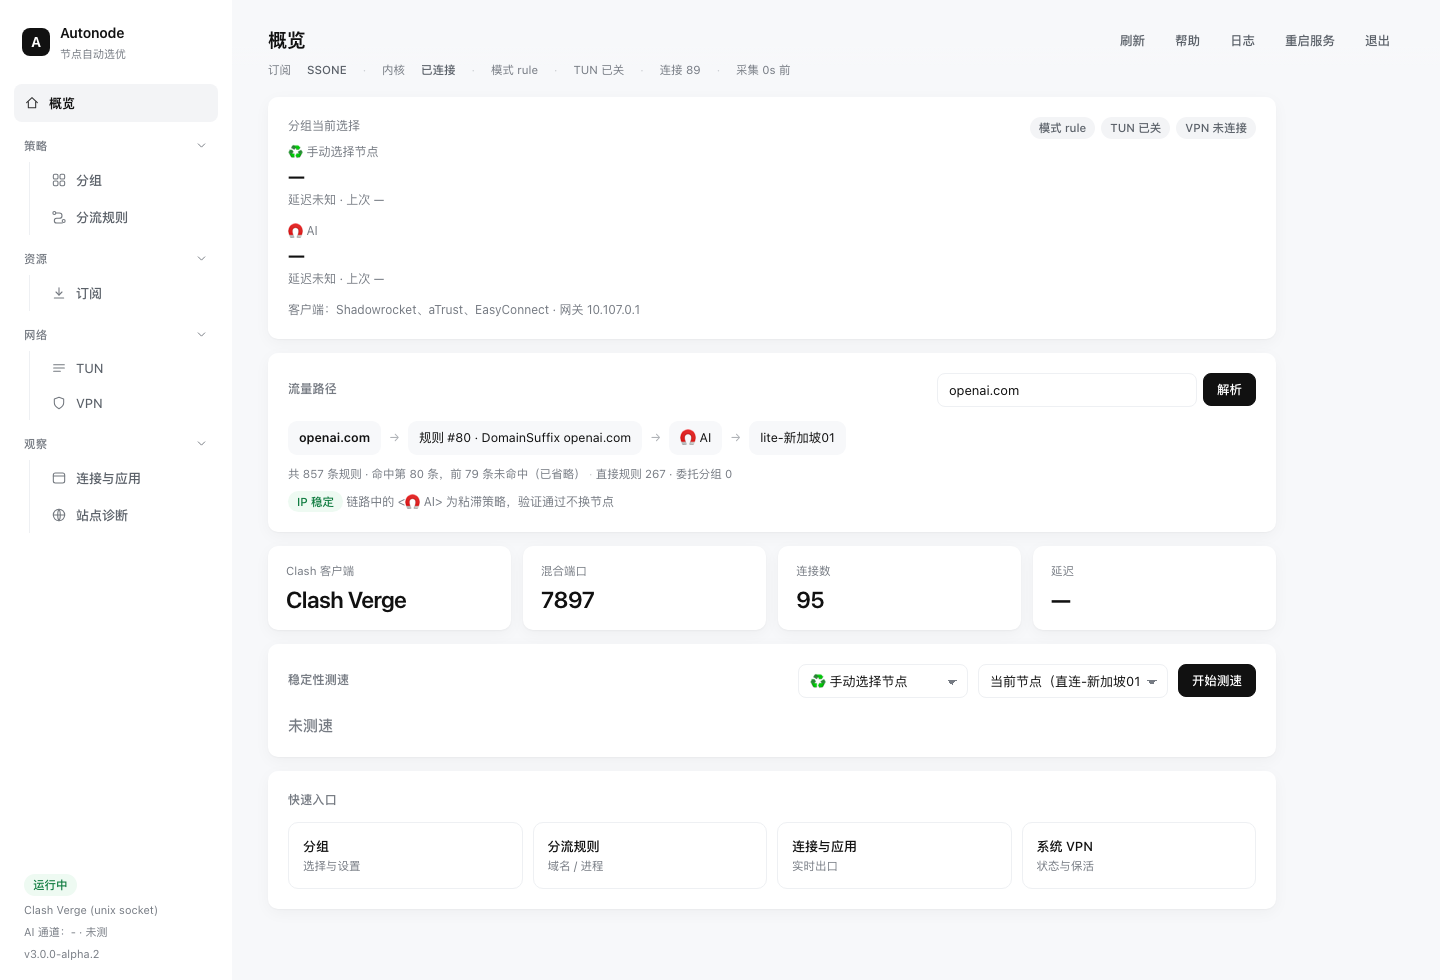
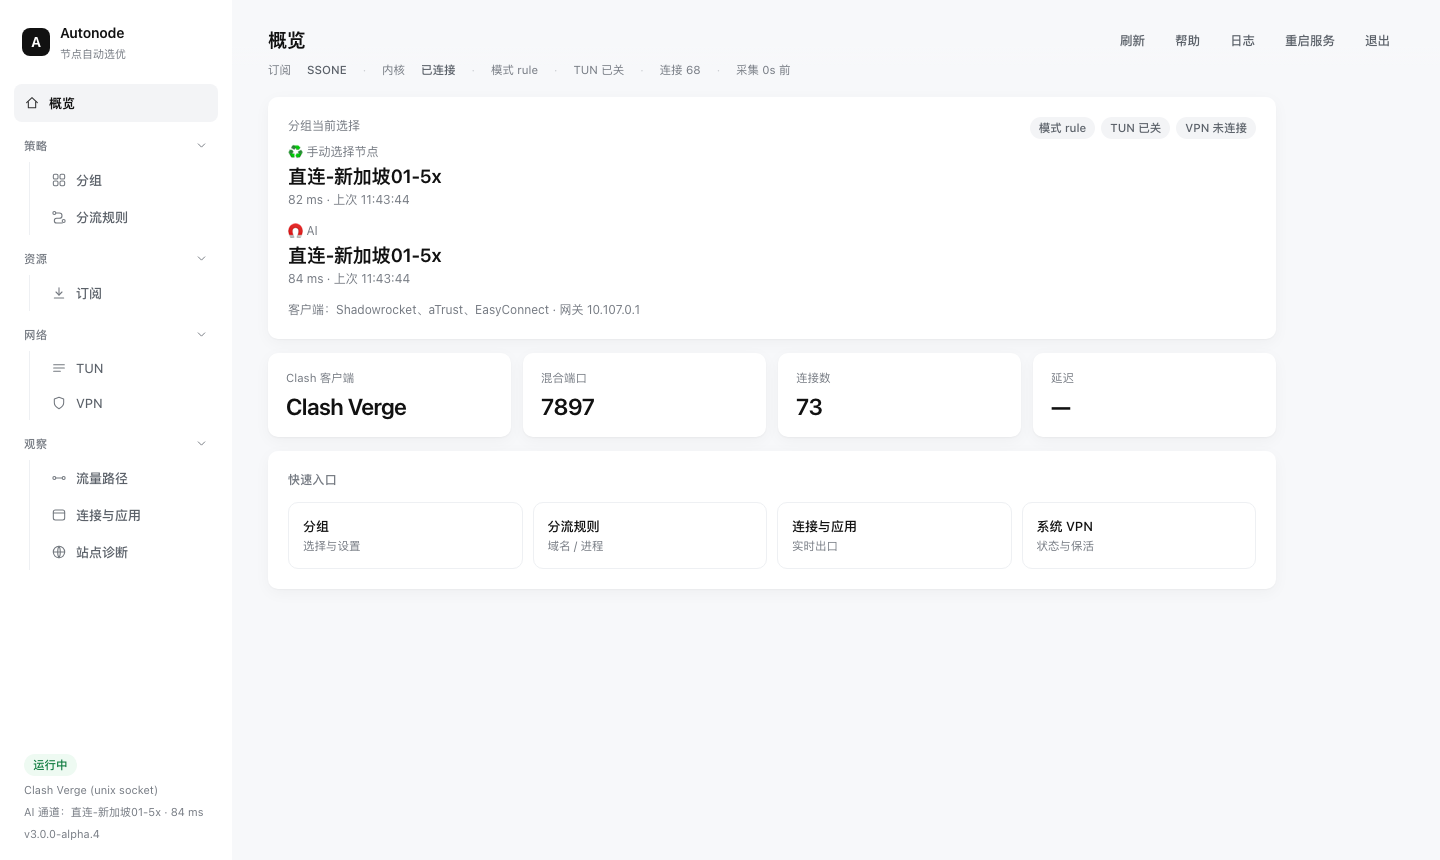
feat(3.0-alpha): 按四层模型重排信息架构——观测层独立流量路径页，概览回归运行态，分组卡片显示影响范围

diff --git a/autonode.py b/autonode.py
@@ -40,7 +40,7 @@ import webbrowser
 from datetime import datetime
 from http.server import BaseHTTPRequestHandler, ThreadingHTTPServer
 
-VERSION = "3.0.0-alpha.4"
+VERSION = "3.0.0-alpha.5"
 
 BASE_DIR = os.path.expanduser("~/.config/autonode")
 CONFIG_FILE = os.path.join(BASE_DIR, "config.json")
@@ -2651,6 +2651,9 @@ pre{background:#f7f8fa;border-radius:10px;padding:14px;max-height:60vh;overflow:
       <button class="navhead" data-toggle="observe">观察
         <svg viewBox="0 0 24 24"><path d="m6 9 6 6 6-6"/></svg></button>
       <div class="navsub">
+        <button data-nav="path">
+          <svg viewBox="0 0 24 24"><circle cx="5" cy="12" r="2.2"/><circle cx="19" cy="12" r="2.2"/><path d="M7.2 12h9.6"/></svg>
+          流量路径</button>
         <button data-nav="apps">
           <svg viewBox="0 0 24 24"><rect x="3.5" y="4.5" width="17" height="15" rx="3"/><path d="M3.5 9h17"/></svg>
           连接与应用</button>
@@ -2700,35 +2703,11 @@ pre{background:#f7f8fa;border-radius:10px;padding:14px;max-height:60vh;overflow:
     </div>
   </div>
 
-  <div class="card">
-    <div class="row" style="justify-content:space-between">
-      <h2 style="margin:0">流量路径</h2>
-      <div class="row" style="gap:6px">
-        <input id="path-input" placeholder="域名、URL 或进程名，如 openai.com" style="width:260px">
-        <button class="primary" id="path-run">解析</button>
-      </div>
-    </div>
-    <div id="path-result" style="margin-top:14px"></div>
-  </div>
-
   <div class="kpis">
     <div class="kpi"><div class="klabel">Clash 客户端</div><div class="kval" id="ov-ctl">—</div><div class="kfoot" id="ov-ctl-foot">—</div></div>
     <div class="kpi"><div class="klabel">混合端口</div><div class="kval" id="ov-port">—</div><div class="kfoot">本地代理入口</div></div>
     <div class="kpi"><div class="klabel">连接数</div><div class="kval" id="ov-conns">—</div><div class="kfoot">内核活动连接</div></div>
     <div class="kpi"><div class="klabel">延迟</div><div class="kval" id="ov-delay">—</div><div class="kfoot" id="ov-delay-foot">点击测速</div></div>
-  </div>
-
-  <div class="card">
-    <div class="row" style="justify-content:space-between">
-      <h2 style="margin:0">稳定性测速</h2>
-      <div class="row"><select id="ov-group" style="width:170px"></select>
-        <select id="ov-node" style="width:190px"><option value="">当前节点</option></select>
-        <button class="primary" id="ov-test">开始测速</button></div>
-    </div>
-    <div class="row" style="margin-top:16px;gap:12px">
-      <span id="ov-result" style="font-size:15px;font-weight:500;color:var(--text-3)">未测速</span>
-      <span id="ov-stab" class="badge" hidden></span>
-    </div>
   </div>
 
   <div class="card">
@@ -2819,6 +2798,32 @@ pre{background:#f7f8fa;border-radius:10px;padding:14px;max-height:60vh;overflow:
     </div>
     <div class="muted" id="site-msg" style="margin-top:8px">未运行</div>
     <div id="site-res" style="margin-top:10px"></div>
+  </div>
+</section>
+
+<section id="sec-path" hidden>
+  <div class="card">
+    <div class="row" style="justify-content:space-between">
+      <h2 style="margin:0">流量路径</h2>
+      <div class="row" style="gap:6px">
+        <input id="path-input" placeholder="域名、URL 或进程名，如 openai.com" style="width:260px">
+        <button class="primary" id="path-run">解析</button>
+      </div>
+    </div>
+    <div id="path-result" style="margin-top:14px"></div>
+  </div>
+
+  <div class="card">
+    <div class="row" style="justify-content:space-between">
+      <h2 style="margin:0">稳定性测速</h2>
+      <div class="row"><select id="ov-group" style="width:170px"></select>
+        <select id="ov-node" style="width:190px"><option value="">当前节点</option></select>
+        <button class="primary" id="ov-test">开始测速</button></div>
+    </div>
+    <div class="row" style="margin-top:16px;gap:12px">
+      <span id="ov-result" style="font-size:15px;font-weight:500;color:var(--text-3)">未测速</span>
+      <span id="ov-stab" class="badge" hidden></span>
+    </div>
   </div>
 </section>
 
@@ -2984,7 +2989,7 @@ pre{background:#f7f8fa;border-radius:10px;padding:14px;max-height:60vh;overflow:
 </div>
 <script>
 var STATUS=null, CTL={}, ROUTES=[], RT_TARGETS=[], SITE={}, NAV='overview';
-var TITLES = {overview:'概览', groups:'分组与选优', routes:'分流规则', sub:'订阅', site:'站点诊断', vpn:'系统 VPN', apps:'连接与应用', tun:'TUN'};
+var TITLES = {overview:'概览', groups:'分组与选优', routes:'分流规则', sub:'订阅', site:'站点诊断', vpn:'系统 VPN', apps:'连接与应用', path:'流量路径', tun:'TUN'};
 var PROVIDERS=[];
 
 function loadProviders(){
@@ -3018,7 +3023,7 @@ document.querySelectorAll('[data-nav]').forEach(function(b){
     var pt = el('pagetitle'); if(pt) pt.textContent = TITLES[NAV] || '';
     if(location.hash !== '#' + NAV){ try{ history.replaceState(null,'','#'+NAV); }catch(e){} }
     document.querySelectorAll('[data-nav]').forEach(function(x){ x.classList.toggle('on', x===b); });
-    ['overview','groups','routes','sub','site','vpn','apps','tun'].forEach(function(n){ el('sec-'+n).hidden = (n!==NAV); });
+    ['overview','groups','routes','sub','site','vpn','apps','tun','path'].forEach(function(n){ el('sec-'+n).hidden = (n!==NAV); });
     if(NAV==='overview') loadOverview();
     if(NAV==='routes'){ loadRoutes(); loadTun(); }
     if(NAV==='site' && STATUS) fillSiteGroups(STATUS);
@@ -3026,6 +3031,7 @@ document.querySelectorAll('[data-nav]').forEach(function(b){
     if(NAV==='sub') loadSubs();
     if(NAV==='tun'){ loadTun(); loadRoutes(); }
     if(NAV==='apps'){ loadRoutes(); loadApps(); }
+    if(NAV==='path'){ loadOverview(); }
   };
 });
 
@@ -3930,6 +3936,7 @@ function groupCard(g){
     + '<button data-act="toggle" class="ghost">暂停</button>'
     + '<button data-act="remove" class="ghost">停止纳管</button></div></div>'
     + '<div class="gbody">'
+    + '<div class="muted" data-role="scope" style="margin-top:8px;font-size:11.5px"></div>'
     + '<div class="grid" style="margin-top:14px">'
     + '<div><div class="muted">当前节点</div><div class="big mono" data-role="current">-</div>'
     + '<div class="muted" data-role="meta">-</div><div class="muted" data-role="last">-</div></div>'
@@ -3975,6 +3982,24 @@ function applyCollapse(card, gid){
   if(!card) return;
   var map = collapsedMap();
   card.classList.toggle('collapsed', !!map[gid]);
+}
+
+function loadGroupScope(card, gid){
+  var box = card.querySelector('[data-role="scope"]');
+  if(!box) return;
+  get('/api/group/scope?id=' + encodeURIComponent(gid)).then(function(d){
+    if(!d || !d.ok) return;
+    var parts = ['影响范围：直接规则 ' + d.directRules];
+    if(d.delegateCount){
+      parts.push('委托分组 ' + d.delegateCount
+        + '（' + (d.delegates || []).slice(0, 3).join('、')
+        + (d.delegateCount > 3 ? '…' : '') + '）');
+    }
+    if((d.ruleSamples || []).length){
+      parts.push('例：' + d.ruleSamples[0]);
+    }
+    box.textContent = parts.join(' · ');
+  }).catch(function(){});
 }
 
 function loadRegionStat(card, gid){
@@ -4055,6 +4080,7 @@ function renderGroups(s){
       fillGroupForm(card, g);
       applyCollapse(card, g.id);
       loadRegionStat(card, g.id);
+      loadGroupScope(card, g.id);
     });
   }
 }
@@ -4437,6 +4463,31 @@ class Handler(BaseHTTPRequestHandler):
                 tail = "（暂无日志）"
             page = PAGE.replace("<!--LOGTAIL-->", html.escape(tail or "（暂无日志）"))
             return self._send(200, page, "text/html; charset=utf-8")
+        if path == "/api/group/scope":
+            qs = urllib.parse.parse_qs(urllib.parse.urlparse(self.path).query)
+            gid = (qs.get("id") or [""])[0]
+            runner = eng.runners.get(gid)
+            if runner is None:
+                return self._send(404, json.dumps({"ok": False, "error": "分组不存在"},
+                                                  ensure_ascii=False))
+            name = runner.cfg.get("group", "")
+            ctx = controller_ctx(eng.cfg)
+            try:
+                rules = api(ctx, "GET", "/rules", timeout=10).get("rules") or []
+                proxies = api(ctx, "GET", "/proxies", timeout=10).get("proxies") or {}
+            except Exception as exc:
+                return self._send(200, json.dumps({"ok": False, "error": str(exc)},
+                                                  ensure_ascii=False))
+            direct = [r for r in rules if r.get("proxy") == name]
+            delegates = [n for n, p in proxies.items()
+                         if p.get("type") in ("Selector", "URLTest", "Fallback", "LoadBalance")
+                         and p.get("now") == name and n != name]
+            samples = ["%s %s" % (r.get("type"), r.get("payload") or "") for r in direct[:3]]
+            return self._send(200, json.dumps({
+                "ok": True, "group": name,
+                "directRules": len(direct), "ruleSamples": samples,
+                "delegateCount": len(delegates), "delegates": delegates[:8],
+            }, ensure_ascii=False))
         if path == "/api/path":
             qs = urllib.parse.parse_qs(urllib.parse.urlparse(self.path).query)
             target = (qs.get("target") or [""])[0]
